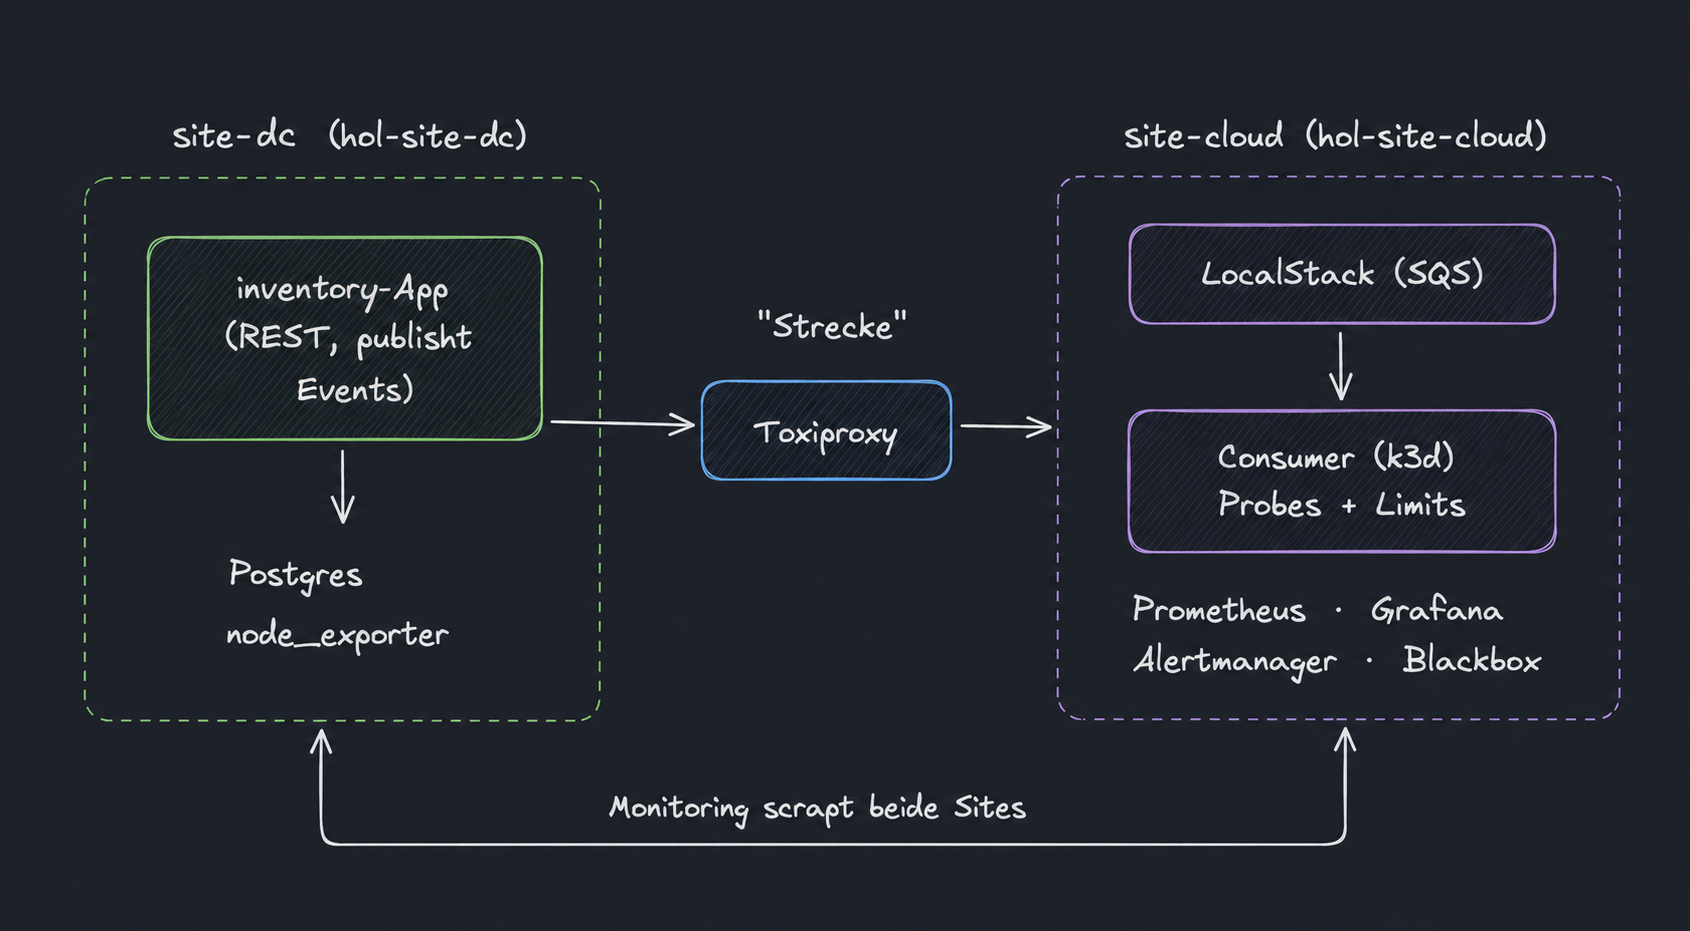
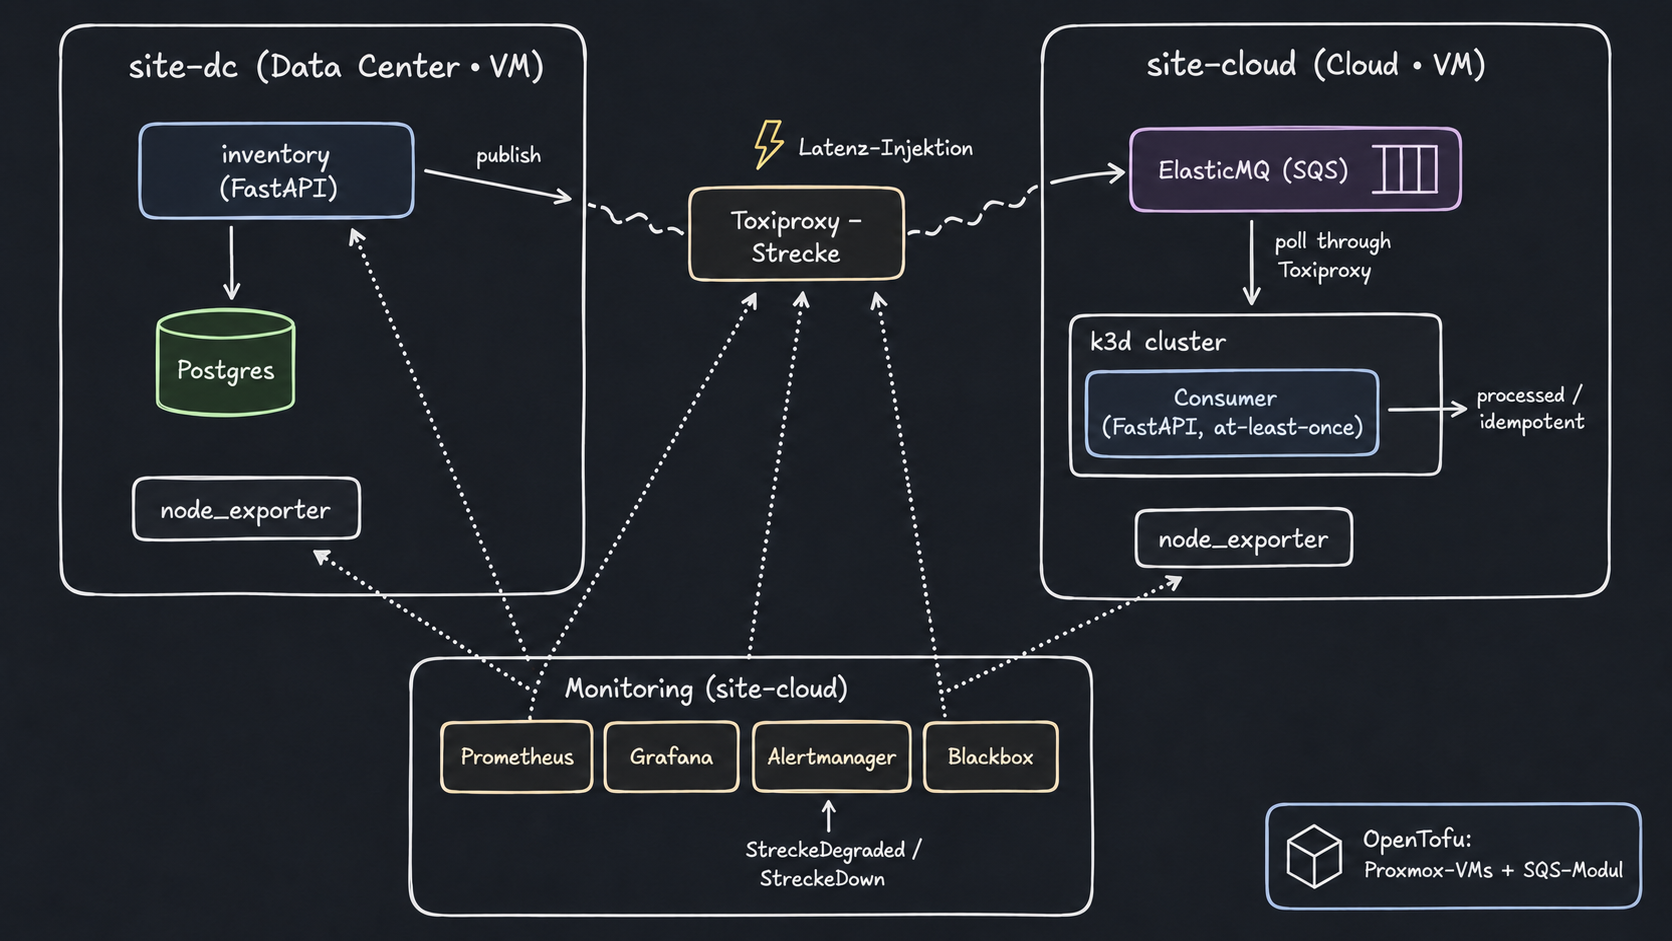
feat(infra): module docs (terraform-docs) and IaC quality gates
Generate Inputs/Outputs/Provider reference docs for event-queue, proxmox and environments/cloud via terraform-docs. Enable SQS server-side encryption (SSE-SQS) after a trivy AWS-0096 finding. Add tofu_validate/tofu_docs/tofu_tflint/tofu_trivy as pre-commit hooks and a CI iac-quality job; pin terraform-docs/tflint/trivy/opentofu/pre-commit in mise.toml. Expand the README IaC section with links to the generated module docs and refresh the architecture diagram (ElasticMQ instead of LocalStack).

diff --git a/README.md b/README.md
@@ -10,8 +10,46 @@ verbunden über eine gedrosselte Netzwerkstrecke (Toxiproxy).
 
 ![Architektur-Überblick](docs/img/architecture.png)
 
-Das Diagramm zeigt die Zielarchitektur. Der aktuelle Implementierungsstand
-steht im Abschnitt [Status](#status).
+Das Diagramm zeigt die Zielarchitektur; der SQS-Endpoint ist im Lab ElasticMQ
+statt LocalStack (siehe [ADR-005](docs/decisions/005-elasticmq-statt-localstack.md)).
+Der Umsetzungsstand steht im Abschnitt [Status](#status).
+
+## Infrastructure as Code (OpenTofu)
+
+Die Umgebung ist durchgängig mit OpenTofu beschrieben — von den virtuellen
+Maschinen bis zur Queue. Secrets und echte Werte (API-Token, IPs, SSH-Keys) liegen
+ausschließlich in gitignorten `terraform.tfvars`; im Code stehen nur typisierte
+Variablen.
+
+**VM-Provisionierung — `infra/proxmox/`.** Beide Standort-VMs werden per `for_each`
+über eine Site-Map aus einem Ubuntu-Template geklont: `hol-site-dc` (2 vCPU / 4 GB)
+und `hol-site-cloud` (4 vCPU / 8 GB). cloud-init setzt statische IP, den Benutzer
+`ops` und die SSH-Keys. Provider `bpg/proxmox`. Die beiden „Standorte" sind damit
+reproduzierbar und versioniert, nicht handgeklickt.
+
+**Wiederverwendbares Queue-Modul — `infra/modules/event-queue/`.** Kapselt eine
+`aws_sqs_queue` mit Visibility-Timeout und Retention als Variablen, gepinnt auf
+`hashicorp/aws ~> 6.0`. Das Environment `infra/environments/cloud/` ruft das Modul
+auf und richtet den AWS-Provider auf den lokalen ElasticMQ-Endpoint
+(Dummy-Credentials + `skip_*`-Flags, damit kein echtes AWS angesprochen wird).
+
+**Bewusste Trennung statt Workaround.** Gegen den Emulator wird *kein* `tofu apply`
+gefahren: Der AWS-Provider liest nach dem Anlegen `GetQueueAttributes` zurück und
+vergleicht den vollständigen Attributsatz, den ElasticMQ nicht deckungsgleich
+liefert (Timeout `notequal`). Der naheliegende „Fix" — einen Security-Default
+abzuschwächen, nur damit das Tooling durchläuft — wurde bewusst vermieden. Das
+Modul bleibt ein AWS-portables Artefakt (über `tofu validate` / `tofu plan` belegt),
+die lokale Queue wird deklarativ in `sites/cloud/elasticmq.conf` bereitgestellt, und
+`apply` zielt auf echtes AWS. Hintergrund:
+[ADR-005](docs/decisions/005-elasticmq-statt-localstack.md).
+
+**Generierte Doku & automatische Checks.** Jedes Modul hat eine per
+[terraform-docs](https://github.com/terraform-docs/terraform-docs) generierte
+Referenz (Inputs/Outputs/Provider): [`event-queue`](infra/modules/event-queue/),
+[`proxmox`](infra/proxmox/), [`environments/cloud`](infra/environments/cloud/).
+`tofu fmt`, `tofu validate`, `tflint` und ein `trivy`-Security-Scan laufen als
+pre-commit-Hooks und in der CI — der SSE-Default der Queue wurde z. B. durch genau
+diesen Scan erzwungen.
 
 ## Monitoring & Incident-Nachweis
 
@@ -44,41 +82,67 @@ Der Alertmanager nutzt im Lab einen Null-Receiver (kein echter Versand, keine
 Secrets im Repo); eine zweite Regel `StreckeDown` (`probe_success == 0`) deckt den
 Totalausfall ab.
 
+## Status
+
+Alle Phasen umgesetzt und auf den VMs verifiziert.
+
+| Phase | Inhalt | Stand |
+|-------|--------|-------|
+| 1 | Repo-Skeleton, Security-Tooling, CI, ADRs, VM-Provisionierung (Proxmox/OpenTofu) | ✅ |
+| 2 | site-dc: inventory-App (FastAPI), Postgres, node_exporter | ✅ |
+| 3 | site-cloud: SQS-Endpoint (ElasticMQ), node_exporter, OpenTofu-Queue-Modul | ✅ |
+| 4 | Consumer auf k3d (at-least-once), Ende-zu-Ende verifiziert | ✅ |
+| 5 | Toxiproxy als Strecke, Incident-Szenario, Chaos-Skripte, Runbook | ✅ |
+| 6 | Monitoring: Prometheus, Grafana, Alertmanager, Blackbox | ✅ |
+| 7 | make-Orchestrierung beider Sites, README | ✅ |
+
 ## Schnellstart
 
-Voraussetzungen: zwei Ubuntu-24-VMs (hol-site-dc, hol-site-cloud) im selben Netz,
-Docker, k3d und OpenTofu 1.12.1 auf beiden VMs installiert.
-Detaillierte VM-Einrichtung: siehe `ops/bootstrap/`.
+Voraussetzungen:
+
+- Zwei Ubuntu-24-VMs im selben Netz, vom Desktop per SSH erreichbar:
+  `site-dc` (Docker) und `site-cloud` (Docker, k3d, kubectl).
+- VM-Einrichtung über die Bootstrap-Skripte in `ops/bootstrap/`.
+- Pro Stack eine lokale `.env` auf der jeweiligen VM (Vorlagen: `*/.env.example`).
+
+Orchestriert wird vom Desktop aus über `make` (per ssh auf die VMs); die
+VM-Adressen kommen aus `make.env`:
 
 ```bash
-make up              # beide Sites hochfahren
-make check           # Konnektivitäts-Check
-make demo-incident   # Toxiproxy-Störung einschalten
+cp make.env.example make.env   # DC_HOST / CLOUD_HOST eintragen
+
+make up              # beide Sites + Monitoring hoch, Consumer deployen
+make check           # Prometheus-Targets + Consumer-Status
+make demo-incident   # Strecken-Latenz einschalten (Toxiproxy)
 make demo-restore    # Störung aufheben
-make down            # alles stoppen
+make down            # Compose-Stacks stoppen (k3d-Cluster bleibt)
 ```
 
 ## Struktur
 
 ```
 hybrid-ops-lab/
-├── site-dc/          # Docker-Compose: inventory-App, Postgres, node_exporter
-├── site-cloud/       # k3d-Config, Consumer-Manifest
+├── apps/
+│   ├── inventory/        # FastAPI + Postgres, publiziert Events nach SQS
+│   └── consumer/         # FastAPI-Consumer (at-least-once), laeuft auf k3d
+├── sites/
+│   ├── dc/               # Docker-Compose: inventory, Postgres, node_exporter
+│   └── cloud/            # Docker-Compose: ElasticMQ (SQS), Toxiproxy, node_exporter
+│       └── k8s/          # Consumer-Manifest (Namespace, Deployment, Service)
+├── monitoring/           # Prometheus, Grafana, Alertmanager, Blackbox
 ├── infra/
-│   ├── modules/
-│   │   ├── event-queue/   # OpenTofu-Modul: SQS-Queue
-│   │   └── workload/      # OpenTofu-Modul: K8s-Ressourcen
-│   └── environments/
-│       ├── dc/            # gegen LocalStack
-│       └── cloud/         # gegen LocalStack / echtes AWS
-├── monitoring/       # Prometheus, Grafana, Alertmanager, Blackbox
-├── ops/              # healthcheck.ps1, chaos-Skripte, bootstrap/
-└── docs/
-    ├── decisions/    # ADRs
-    ├── runbook-link-degradation.md
-    ├── architecture.md
-    ├── aws-mapping.md
-    └── provider-management.md
+│   ├── modules/event-queue/   # OpenTofu-Modul: SQS-Queue (AWS-portabel)
+│   ├── environments/cloud/    # Tofu gegen ElasticMQ (lokal nicht applied)
+│   └── proxmox/               # OpenTofu: VM-Provisionierung
+├── ops/
+│   ├── bootstrap/        # VM-Setup (Docker, k3d)
+│   ├── deploy/           # deploy-consumer.sh (k3d-Gateway-IP zur Deploy-Zeit)
+│   └── chaos/            # degrade-/restore-link.sh
+├── docs/
+│   ├── decisions/        # ADRs
+│   ├── img/              # Architektur + Monitoring-Screenshots
+│   └── runbook-link-degradation.md
+└── Makefile              # Desktop-Orchestrierung (make up/check/demo-*/down)
 ```
 
 ## Sicherheit

diff --git a/infra/proxmox/README.md b/infra/proxmox/README.md
@@ -1,0 +1,50 @@
+# proxmox
+
+OpenTofu-Konfiguration zur VM-Provisionierung auf Proxmox: beide Standort-VMs
+(`hol-site-dc`, `hol-site-cloud`) werden per `for_each` aus einem Ubuntu-Template
+geklont, cloud-init setzt statische IP, Benutzer und SSH-Keys. API-Token, IPs und
+Keys liegen in gitignorten `terraform.tfvars` (Vorlage: `terraform.tfvars.example`).
+Hintergrund: [ADR-004](../../docs/decisions/004-proxmox-provisionierung.md).
+
+<!-- BEGIN_TF_DOCS -->
+## Requirements
+
+| Name | Version |
+| ---- | ------- |
+| <a name="requirement_terraform"></a> [terraform](#requirement\_terraform) | >= 1.12.0 |
+| <a name="requirement_proxmox"></a> [proxmox](#requirement\_proxmox) | ~> 0.107 |
+
+## Providers
+
+| Name | Version |
+| ---- | ------- |
+| <a name="provider_proxmox"></a> [proxmox](#provider\_proxmox) | 0.109.0 |
+
+## Modules
+
+No modules.
+
+## Resources
+
+| Name | Type |
+| ---- | ---- |
+| [proxmox_virtual_environment_vm.site](https://registry.terraform.io/providers/bpg/proxmox/latest/docs/resources/virtual_environment_vm) | resource |
+
+## Inputs
+
+| Name | Description | Type | Default | Required |
+| ---- | ----------- | ---- | ------- | :------: |
+| <a name="input_datastore_id"></a> [datastore\_id](#input\_datastore\_id) | Datastore for VM disks | `string` | n/a | yes |
+| <a name="input_node_name"></a> [node\_name](#input\_node\_name) | Proxmox node to deploy on | `string` | n/a | yes |
+| <a name="input_proxmox_api_token"></a> [proxmox\_api\_token](#input\_proxmox\_api\_token) | Proxmox API token in the form user@realm!tokenname=secret | `string` | n/a | yes |
+| <a name="input_proxmox_endpoint"></a> [proxmox\_endpoint](#input\_proxmox\_endpoint) | Proxmox API endpoint, e.g. https://host:8006 | `string` | n/a | yes |
+| <a name="input_proxmox_insecure"></a> [proxmox\_insecure](#input\_proxmox\_insecure) | Skip TLS verification (self-signed cert on the Proxmox host) | `bool` | `true` | no |
+| <a name="input_template_vm_id"></a> [template\_vm\_id](#input\_template\_vm\_id) | VM ID of the Ubuntu template to clone | `number` | `5000` | no |
+| <a name="input_vm_ip_configs"></a> [vm\_ip\_configs](#input\_vm\_ip\_configs) | Static IP config per site, CIDR notation | <pre>map(object({<br/>    address = string<br/>    gateway = string<br/>  }))</pre> | n/a | yes |
+| <a name="input_vm_ssh_public_keys"></a> [vm\_ssh\_public\_keys](#input\_vm\_ssh\_public\_keys) | SSH public keys for the default user (one per device) | `list(string)` | n/a | yes |
+| <a name="input_vm_username"></a> [vm\_username](#input\_vm\_username) | Default user created via cloud-init | `string` | `"ops"` | no |
+
+## Outputs
+
+No outputs.
+<!-- END_TF_DOCS -->

diff --git a/infra/modules/event-queue/README.md b/infra/modules/event-queue/README.md
@@ -1,0 +1,49 @@
+# event-queue
+
+Wiederverwendbares OpenTofu-Modul für eine SQS-Queue. AWS-portabel; Visibility-Timeout
+und Retention sind parametrierbar, Server-Side-Encryption (SSE-SQS) ist standardmäßig
+aktiv. Zur lokalen Verwendung gegen ElasticMQ siehe
+[`../../environments/cloud`](../../environments/cloud) und
+[ADR-005](../../../docs/decisions/005-elasticmq-statt-localstack.md).
+
+<!-- BEGIN_TF_DOCS -->
+## Requirements
+
+| Name | Version |
+| ---- | ------- |
+| <a name="requirement_terraform"></a> [terraform](#requirement\_terraform) | >= 1.12.0 |
+| <a name="requirement_aws"></a> [aws](#requirement\_aws) | ~> 6.0 |
+
+## Providers
+
+| Name | Version |
+| ---- | ------- |
+| <a name="provider_aws"></a> [aws](#provider\_aws) | 6.50.0 |
+
+## Modules
+
+No modules.
+
+## Resources
+
+| Name | Type |
+| ---- | ---- |
+| [aws_sqs_queue.this](https://registry.terraform.io/providers/hashicorp/aws/latest/docs/resources/sqs_queue) | resource |
+
+## Inputs
+
+| Name | Description | Type | Default | Required |
+| ---- | ----------- | ---- | ------- | :------: |
+| <a name="input_message_retention_seconds"></a> [message\_retention\_seconds](#input\_message\_retention\_seconds) | How long messages are retained in the queue | `number` | `345600` | no |
+| <a name="input_queue_name"></a> [queue\_name](#input\_queue\_name) | Name of the SQS queue | `string` | n/a | yes |
+| <a name="input_sqs_managed_sse_enabled"></a> [sqs\_managed\_sse\_enabled](#input\_sqs\_managed\_sse\_enabled) | Enable server-side encryption with SQS-managed keys (SSE-SQS) | `bool` | `true` | no |
+| <a name="input_visibility_timeout_seconds"></a> [visibility\_timeout\_seconds](#input\_visibility\_timeout\_seconds) | Time a message stays hidden after being received | `number` | `30` | no |
+
+## Outputs
+
+| Name | Description |
+| ---- | ----------- |
+| <a name="output_queue_arn"></a> [queue\_arn](#output\_queue\_arn) | ARN of the created SQS queue |
+| <a name="output_queue_name"></a> [queue\_name](#output\_queue\_name) | Name of the created SQS queue |
+| <a name="output_queue_url"></a> [queue\_url](#output\_queue\_url) | URL of the created SQS queue |
+<!-- END_TF_DOCS -->

diff --git a/infra/environments/cloud/README.md b/infra/environments/cloud/README.md
@@ -7,3 +7,41 @@ pollt nach dem Anlegen `GetQueueAttributes` und vergleicht den vollständigen
 Attributsatz, den ein Emulator nicht deckungsgleich liefert (Timeout 'notequal').
 Die lokale Queue wird stattdessen deklarativ in `sites/cloud/elasticmq.conf`
 bereitgestellt. `apply` zielt auf echtes AWS.
+
+<!-- BEGIN_TF_DOCS -->
+## Requirements
+
+| Name | Version |
+| ---- | ------- |
+| <a name="requirement_terraform"></a> [terraform](#requirement\_terraform) | >= 1.12.0 |
+| <a name="requirement_aws"></a> [aws](#requirement\_aws) | ~> 6.0 |
+
+## Providers
+
+No providers.
+
+## Modules
+
+| Name | Source | Version |
+| ---- | ------ | ------- |
+| <a name="module_event_queue"></a> [event\_queue](#module\_event\_queue) | ../../modules/event-queue | n/a |
+
+## Resources
+
+No resources.
+
+## Inputs
+
+| Name | Description | Type | Default | Required |
+| ---- | ----------- | ---- | ------- | :------: |
+| <a name="input_aws_region"></a> [aws\_region](#input\_aws\_region) | AWS region reported to the SQS endpoint | `string` | `"eu-central-1"` | no |
+| <a name="input_queue_name"></a> [queue\_name](#input\_queue\_name) | Name of the SQS queue to create | `string` | `"inventory-movements"` | no |
+| <a name="input_sqs_endpoint_url"></a> [sqs\_endpoint\_url](#input\_sqs\_endpoint\_url) | SQS-compatible endpoint (ElasticMQ on site-cloud) | `string` | n/a | yes |
+
+## Outputs
+
+| Name | Description |
+| ---- | ----------- |
+| <a name="output_queue_arn"></a> [queue\_arn](#output\_queue\_arn) | ARN of the SQS queue |
+| <a name="output_queue_url"></a> [queue\_url](#output\_queue\_url) | URL of the SQS queue |
+<!-- END_TF_DOCS -->